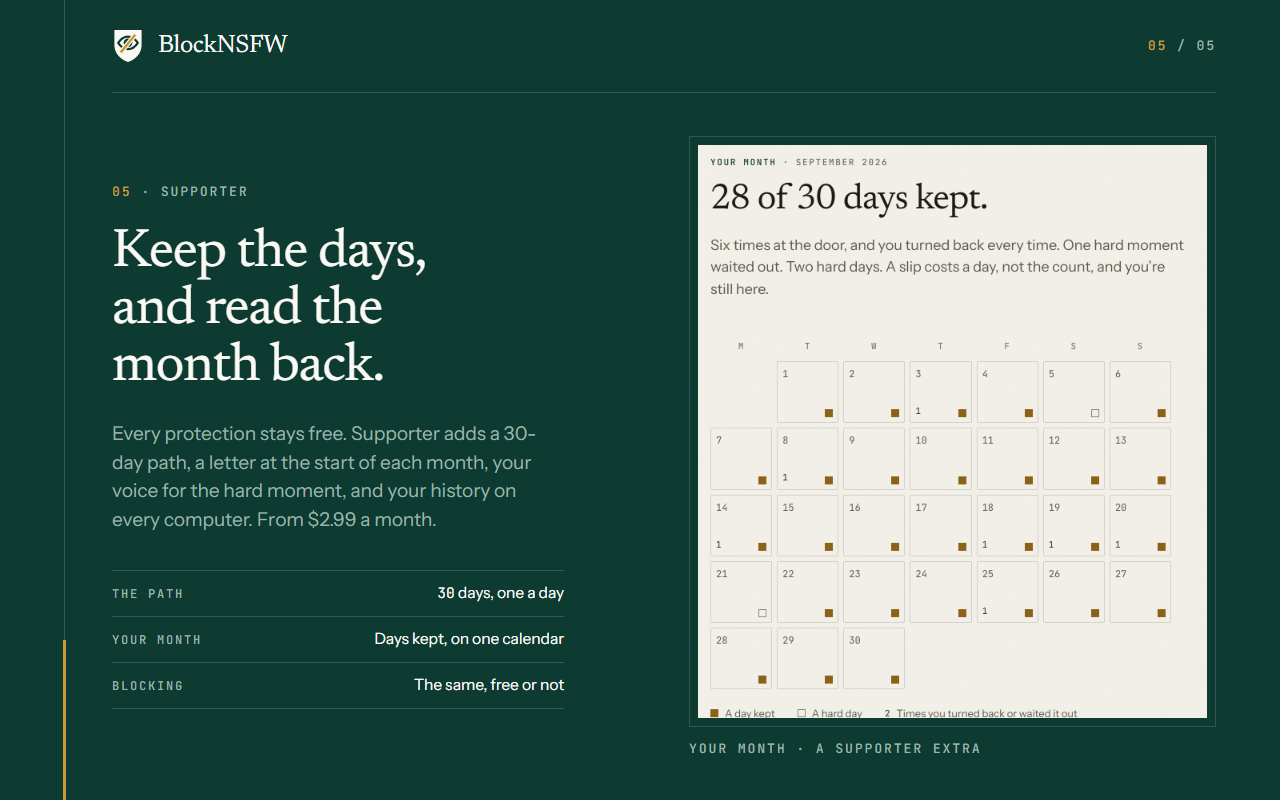
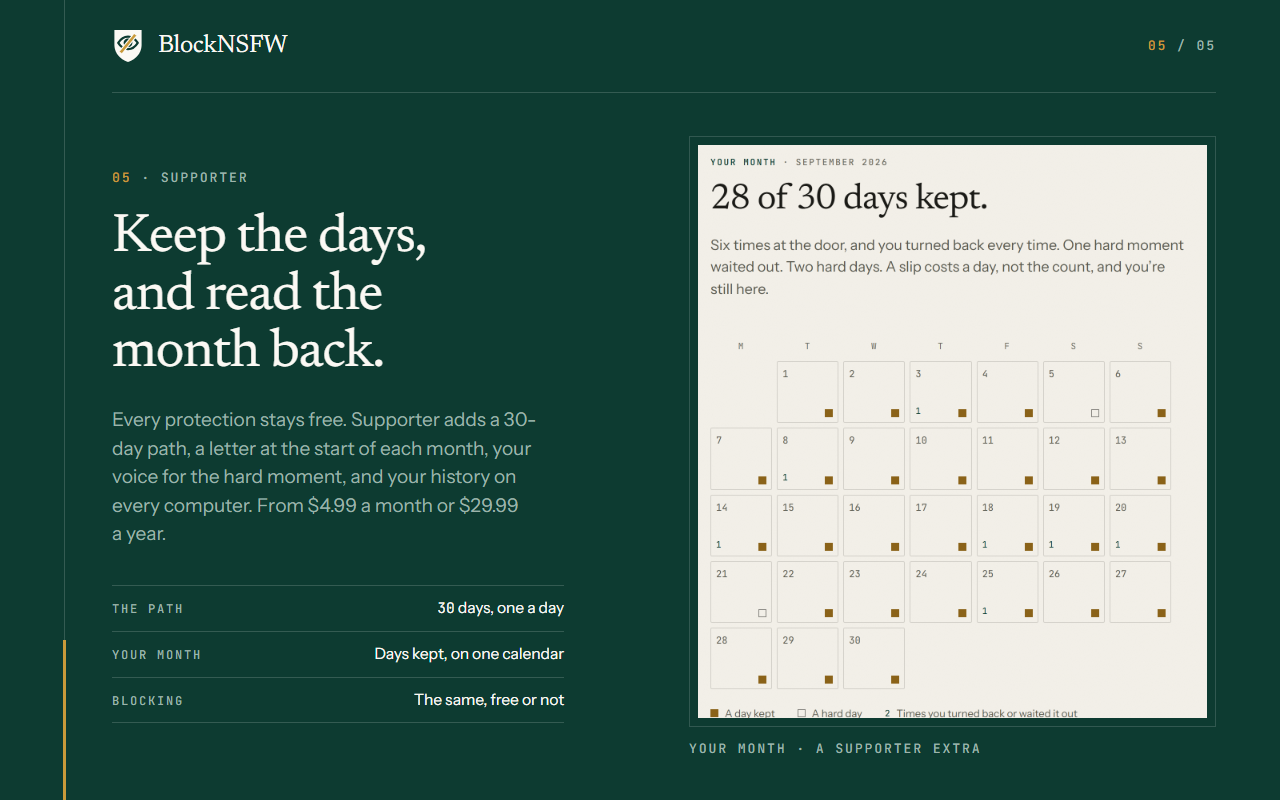
feat(supporter): live store, at $4.99 a month, $29.99 a year, $89.99 once
Supporter now sells through Polar's live store: the live organization and
its three checkout links, each checked to open the right BlockNSFW product,
price and license-key benefit. Monthly goes from $2.99 to $4.99 (fees took
about a quarter of $2.99) and yearly from $24.99 to $29.99, labelled "$2.50
a month" instead of a percentage. The 2.0 page, the store text, screenshot 5
and the release checklist carry the same prices, and 2.0.0 is dated today.

diff --git a/shared/supporter.js b/shared/supporter.js
@@ -53,8 +53,8 @@
   // 'live' for real purchases; a code from one doesn't open the other.
   // Until organizationId is set, store codes say they aren't switched on yet.
   var STORE = {
-    mode: 'sandbox',
-    organizationId: '35c82b93-77a2-4b87-8478-39fc5dd4e666',
+    mode: 'live',
+    organizationId: '354a2f6c-8ea7-46a7-87c5-f97645c12e29',
     api: { sandbox: 'https://sandbox-api.polar.sh', live: 'https://api.polar.sh' },
     // Where buyers find their code and manage or cancel a plan.
     portal: { sandbox: 'https://sandbox.polar.sh/monolab/portal', live: 'https://polar.sh/monolab/portal' }
@@ -65,12 +65,12 @@
   // isn't offered; with none at all, Settings shows the prices and says
   // Supporter opens soon instead of showing a button.
   var PLANS = [
-    { id: 'monthly', name: 'Monthly', price: '$2.99', per: 'a month', note: '',
-      url: 'https://sandbox-api.polar.sh/v1/checkout-links/polar_cl_zrWeqAon4KrGFiby4Mx0o898RAWPqz4tE8wxm3K3ceT/redirect' },
-    { id: 'yearly', name: 'Yearly', price: '$24.99', per: 'a year', note: 'Save 30%', best: true,
-      url: 'https://sandbox-api.polar.sh/v1/checkout-links/polar_cl_dEz1SAPFLH4HN3QthpFeMuu4Dcrq96vDQbroo1ucr83/redirect' },
+    { id: 'monthly', name: 'Monthly', price: '$4.99', per: 'a month', note: '',
+      url: 'https://api.polar.sh/v1/checkout-links/polar_cl_3HoAfQuBk8UGkoMsCqXyFIgq2Gfh0uivZJOzf2U3TFG/redirect' },
+    { id: 'yearly', name: 'Yearly', price: '$29.99', per: 'a year', note: '$2.50 a month', best: true,
+      url: 'https://api.polar.sh/v1/checkout-links/polar_cl_K2iTFH90BwoBLA1Qrl8OrtvZs2i44EzVL23Hr0egjKt/redirect' },
     { id: 'lifetime', name: 'Lifetime', price: '$89.99', per: 'once', note: '',
-      url: 'https://sandbox-api.polar.sh/v1/checkout-links/polar_cl_gckx8j6KhDgVy4k0CvN3MDFiX3gHIo6Po8e3E2szYnp/redirect' }
+      url: 'https://api.polar.sh/v1/checkout-links/polar_cl_31MDhvtZNNC3FmBUQ9b7ZTSc0dsMcrGypA4652KTs9F/redirect' }
   ];
 
   // An offer with an end, such as a founding price for the first month: a

diff --git a/release.html b/release.html
@@ -379,7 +379,7 @@
       <div>
         <p class="meta">Optional</p>
         <h2 id="supporter-head">Supporter, if you want to go further.</h2>
-        <p><span class="release-free">Every protection on this page is free, and stays free.</span> Supporter adds the rest of a 30-day path, an evening check-in, your good days, a letter every month, a photo and a message in your own voice for the hard moment, your progress on every computer, and four more blocked-page designs. From $2.99 a month, on up to three of your browsers.</p>
+        <p><span class="release-free">Every protection on this page is free, and stays free.</span> Supporter adds the rest of a 30-day path, an evening check-in, your good days, a letter every month, a photo and a message in your own voice for the hard moment, your progress on every computer, and four more blocked-page designs. From $4.99 a month or $29.99 a year, on up to three of your browsers.</p>
       </div>
       <a class="btn btn-primary" href="options.html#section-supporter">See Supporter</a>
     </section>

diff --git a/store-assets/src/frames.html b/store-assets/src/frames.html
@@ -260,7 +260,7 @@
     <div class="claim">
       <p class="meta"><span class="idx">05</span> · Supporter</p>
       <h2>Keep the days, and read the month back.</h2>
-      <p class="lede">Every protection stays free. Supporter adds a 30-day path, a letter at the start of each month, your voice for the hard moment, and your history on every computer. From $2.99 a month.</p>
+      <p class="lede">Every protection stays free. Supporter adds a 30-day path, a letter at the start of each month, your voice for the hard moment, and your history on every computer. From $4.99 a month or $29.99 a year.</p>
       <dl class="specs">
         <div class="spec"><dt>The path</dt><dd><span class="tnum">30</span> days, one a day</dd></div>
         <div class="spec"><dt>Your month</dt><dd>Days kept, on one calendar</dd></div>

diff --git a/store-assets/listing.md b/store-assets/listing.md
@@ -20,7 +20,7 @@ Blocks porn and adult sites before they load, and helps in the hard moment. Ever
 ```
 Most paid blockers charge $9 to $18 a month to block. BlockNSFW blocks for free.
 
-Every protection below costs nothing, needs no account, and will never move behind a payment. Supporter is optional: it adds extras for going further, from $2.99 a month.
+Every protection below costs nothing, needs no account, and will never move behind a payment. Supporter is optional: it adds extras for going further, from $4.99 a month or $29.99 a year.
 
 WHAT IT BLOCKS
 Six layers stand between you and an adult page:
@@ -59,7 +59,7 @@ Blocking is the same for everyone: paying never makes it stronger or weaker. Sup
 • A photo and a message in your own voice for the hard moment
 • Your progress on every computer, through the browser's own sync
 • Supporter looks, and four more blocked-page designs
-$2.99 a month, $24.99 a year or $89.99 once, on up to three of your browsers. Payment through Polar. Cancel any time.
+$4.99 a month, $29.99 a year or $89.99 once, on up to three of your browsers. Payment through Polar. Cancel any time.
 
 HELP
 Problems and ideas: support@monolab.dev

diff --git a/RELEASE_CHECKLIST.md b/RELEASE_CHECKLIST.md
@@ -18,7 +18,7 @@ package needs `-Zip -Sandbox`, and says "TEST PACKAGE" when it's done.
 In Polar, live organization (polar.sh, not sandbox.polar.sh):
 
 - [ ] Three products exist, each with the **License key** benefit: Monthly
-      $2.99, Yearly $24.99, Lifetime $89.99. Open each checkout link and check
+      $4.99, Yearly $29.99, Lifetime $89.99. Open each checkout link and check
       it shows the BlockNSFW product and price (the first sandbox Lifetime
       link opened "Warden Pro Lifetime" instead)
 - [ ] Organization Settings → Subscriptions → "Allow multiple subscriptions"

diff --git a/CHANGELOG.md b/CHANGELOG.md
@@ -2,7 +2,7 @@
 
 All notable project changes should be documented here going forward.
 
-## [2.0.0] - 2026-10-09
+## [2.0.0] - 2026-10-12
 
 BlockNSFW 2.0 is built for the hard moment, not only the blocking. **The
 Pact** makes every change that loosens protection wait, and lets a friend you
